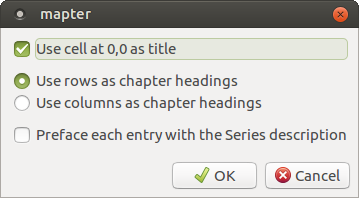
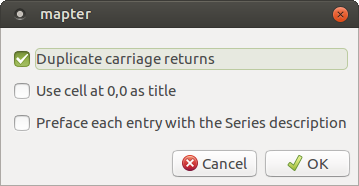
Small export changes

diff --git a/src/file.c b/src/file.c
@@ -65,7 +65,7 @@ void on_dlg_about_response( GtkDialog *dialog, gint response_id, app_widgets *ap
 void on_export_activate( GtkMenuItem *menuitem, app_widgets *app_wdgts )
 {
   gboolean use_cell_0_0;
-  gboolean row_chapters;
+  gboolean dup_cr;
   gboolean add_series;
   gchar *file_path = NULL;        // Name of file to open from dialog box
 
@@ -78,7 +78,7 @@ void on_export_activate( GtkMenuItem *menuitem, app_widgets *app_wdgts )
   {
     // Get the options
     use_cell_0_0 = gtk_toggle_button_get_active( GTK_TOGGLE_BUTTON( app_wdgts->b_chkbtn_export_title ) );
-    row_chapters = gtk_toggle_button_get_active( GTK_TOGGLE_BUTTON( app_wdgts->b_rdbtn_row ) );
+    dup_cr = gtk_toggle_button_get_active( GTK_TOGGLE_BUTTON( app_wdgts->b_chkbtn_export_dup_cr ) );
     add_series = gtk_toggle_button_get_active( GTK_TOGGLE_BUTTON( app_wdgts->b_chkbtn_export_series ) );
     // Close the dialog
     gtk_widget_hide(app_wdgts->w_dlg_export_options );
@@ -115,75 +115,57 @@ void on_export_activate( GtkMenuItem *menuitem, app_widgets *app_wdgts )
             }
           }
 
-          if( row_chapters == TRUE )
+          // Rows as chapters
+          g_info( "  Use rows as chapters" );
+          for( gint r=1; r<app_wdgts->current_grid_rows; r++ )
           {
-            // Rows as chapters
-            g_info( "  Use rows as chapters" );
-            for( gint r=1; r<app_wdgts->current_grid_rows; r++ )
+            // Chapter title is in column 0
+            gchar *chapter = list_get_text( HEADER_LIST, r, 0, app_wdgts );
+            if( ( chapter != NULL ) && ( strlen( chapter ) > 0 ) )
             {
-              // Chapter title is in column 0
-              gchar *chapter = list_get_text( HEADER_LIST, r, 0, app_wdgts );
-              if( ( chapter != NULL ) && ( strlen( chapter ) > 0 ) )
-              {
-                fprintf( output_file, "%s\n\n", chapter );
-              }
-              // Now the sections
-              for( gint c=1; c<app_wdgts->current_grid_columns; c++ )
-              {
-                gchar *header = list_get_text( HEADER_LIST, r, c, app_wdgts );
-                gchar *body = list_get_text( BODY_LIST, r, c, app_wdgts );
-                // Header
-                if( ( header != NULL ) && ( strlen( header ) > 0 ) )
-                {
-                  if( add_series == TRUE )
-                  {
-                    fprintf( output_file, "%s - ", fetch_cell_contents( app_wdgts->w_text_grid, 0, c  ) );
-                  }
-                  fprintf( output_file, "%s\n\n", header );
-                }
-                // Body
-                if( ( body != NULL ) && ( strlen( body ) > 0 ) )
-                {
-                  fprintf( output_file, "%s\n\n", body );
-                }
-              }
-              fprintf( output_file, "\n" );
+              fprintf( output_file, "%s\n\n", chapter );
             }
-          }
-          else
-          {
-            // Columns as chapters
-            g_info( "  Use columns as chapters" );
+            // Now the sections
             for( gint c=1; c<app_wdgts->current_grid_columns; c++ )
             {
-              // Chapter title is in row 0
-              gchar *chapter = list_get_text( HEADER_LIST, 0, c, app_wdgts );
-              if( ( chapter != NULL ) && ( strlen( chapter ) > 0 ) )
+              gchar *header = list_get_text( HEADER_LIST, r, c, app_wdgts );
+              gchar *body = list_get_text( BODY_LIST, r, c, app_wdgts );
+              // Header
+              if( ( header != NULL ) && ( strlen( header ) > 0 ) )
               {
-                fprintf( output_file, "%s\n\n", chapter );
-              }
-              // Now the sections
-              for( gint r=1; r<app_wdgts->current_grid_rows; r++ )
-              {
-                gchar *header = list_get_text( HEADER_LIST, r, c, app_wdgts );
-                gchar *body = list_get_text( BODY_LIST, r, c, app_wdgts );
-                // Header
-                if( ( header != NULL ) && ( strlen( header ) > 0 ) )
+                if( add_series == TRUE )
                 {
-                  if( add_series == TRUE )
-                  {
-                    fprintf( output_file, "%s - ", fetch_cell_contents( app_wdgts->w_text_grid, r, 0  ) );
-                  }
-                  fprintf( output_file, "%s\n\n", header );
+                  fprintf( output_file, "%s - ", fetch_cell_contents( app_wdgts->w_text_grid, 0, c  ) );
                 }
-                // Body
-                if( ( body != NULL ) && ( strlen( body ) > 0 ) )
+                fprintf( output_file, "%s\n\n", header );
+              }
+              // Body
+              if( ( body != NULL ) && ( strlen( body ) > 0 ) )
+              {
+                // Check if the CRs need to be duplicated
+                if( dup_cr )
                 {
+                    // Loop through the body text
+                    gchar *ptr = body;
+                    while( *ptr != '\0' )
+                    {
+                      fprintf( output_file, "%c", *ptr );
+                      if( *ptr == '\n' )
+                      {
+                        fprintf( output_file, "\n" );
+                      }
+                      ptr++;
+                    }
+                    fprintf( output_file, "\n\n" );
+                }
+                else
+                {
+                  // Just output the body in one go
                   fprintf( output_file, "%s\n\n", body );
                 }
               }
-              fprintf( output_file, "\n" );
             }
+            fprintf( output_file, "\n" );
           }
         }
         else

diff --git a/src/gui.c b/src/gui.c
@@ -586,7 +586,7 @@ const gchar *glade_definition = R""""(
     <property name="deletable">False</property>
     <property name="transient_for">window_main</property>
     <property name="program_name">mapter</property>
-    <property name="version">Version 0.5.3</property>
+    <property name="version">Version 0.5.4</property>
     <property name="copyright" translatable="yes">Copyright John Davies 2020</property>
     <property name="website">https://github.com/john-davies/mapter</property>
     <property name="website_label" translatable="yes">GitHub repository</property>
@@ -734,24 +734,8 @@ const gchar *glade_definition = R""""(
             <property name="border_width">8</property>
             <property name="orientation">vertical</property>
             <child>
-              <object class="GtkCheckButton" id="chkbtn_export_title">
-                <property name="label" translatable="yes">Use cell at 0,0 as title</property>
-                <property name="visible">True</property>
-                <property name="can_focus">True</property>
-                <property name="receives_default">False</property>
-                <property name="xalign">0</property>
-                <property name="active">True</property>
-                <property name="draw_indicator">True</property>
-              </object>
-              <packing>
-                <property name="expand">False</property>
-                <property name="fill">True</property>
-                <property name="position">0</property>
-              </packing>
-            </child>
-            <child>
-              <object class="GtkRadioButton" id="rdbtn_row">
-                <property name="label" translatable="yes">Use rows as chapter headings</property>
+              <object class="GtkCheckButton" id="chkbtn_export_dup_cr">
+                <property name="label" translatable="yes">Duplicate carriage returns</property>
                 <property name="visible">True</property>
                 <property name="can_focus">True</property>
                 <property name="receives_default">False</property>
@@ -763,24 +747,23 @@ const gchar *glade_definition = R""""(
               <packing>
                 <property name="expand">False</property>
                 <property name="fill">True</property>
-                <property name="position">1</property>
+                <property name="position">0</property>
               </packing>
             </child>
             <child>
-              <object class="GtkRadioButton" id="rdbtn_column">
-                <property name="label" translatable="yes">Use columns as chapter headings</property>
+              <object class="GtkCheckButton" id="chkbtn_export_title">
+                <property name="label" translatable="yes">Use cell at 0,0 as title</property>
                 <property name="visible">True</property>
                 <property name="can_focus">True</property>
                 <property name="receives_default">False</property>
+                <property name="margin_top">10</property>
                 <property name="xalign">0</property>
-                <property name="active">True</property>
                 <property name="draw_indicator">True</property>
-                <property name="group">rdbtn_row</property>
               </object>
               <packing>
                 <property name="expand">False</property>
                 <property name="fill">True</property>
-                <property name="position">2</property>
+                <property name="position">1</property>
               </packing>
             </child>
             <child>

diff --git a/src/main.c b/src/main.c
@@ -77,7 +77,7 @@ int main( int argc, char *argv[] )
     widgets->stop_node_processing = FALSE;
     widgets->w_dlg_export_options = GTK_WIDGET(gtk_builder_get_object(builder, "dlg_export_options"));
     widgets->b_chkbtn_export_title = GTK_WIDGET(gtk_builder_get_object(builder, "chkbtn_export_title"));
-    widgets->b_rdbtn_row = GTK_WIDGET(gtk_builder_get_object(builder, "rdbtn_row"));
+    widgets->b_chkbtn_export_dup_cr = GTK_WIDGET(gtk_builder_get_object(builder, "chkbtn_export_dup_cr"));
     widgets->w_dlg_export = GTK_WIDGET(gtk_builder_get_object(builder, "dlg_export"));
     widgets->b_chkbtn_export_series = GTK_WIDGET(gtk_builder_get_object(builder, "chkbtn_export_series"));
     widgets->l_row_id_label  = GTK_WIDGET(gtk_builder_get_object(builder, "row_id_label"));

diff --git a/src/main.h b/src/main.h
@@ -90,7 +90,7 @@ typedef struct {
     gboolean current_node_status;
     gboolean stop_node_processing;
     GtkWidget *b_chkbtn_export_title;
-    GtkWidget *b_rdbtn_row;
+    GtkWidget *b_chkbtn_export_dup_cr;
     GtkWidget *b_chkbtn_export_series;
     GtkWidget *w_dlg_export;
     GtkWidget *l_row_id_label;

diff --git a/README.md b/README.md
@@ -24,11 +24,7 @@ _( The name comes from a portmanteau of "mapping" and "chapter" and was created 
 
 ## Current Status
 
-The current version ( 0.5.3 ) could generously be called a minimum viable product ( MVP ) and allows the creation and editing of a full work. The main limitation is that the editor is extremely basic and lacks common features like "search/replace".
-
-The build now comprises of a single executable with no other external file dependencies.
-
-The example file has been expanded to include the full body text. Two extra versions of the example have been added with Markdown and LaTeX annotations to show how the output could be typeset.
+The current version ( 0.5.4 ) could generously be called a minimum viable product ( MVP ) and allows the creation and editing of a full work. The main limitation is that the editor is extremely basic and lacks common features like "search/replace".
 
 ## Building
 
@@ -67,7 +63,6 @@ The grid tab has four main sections as described below. Double click on any of t
     * Low - green background
     * Neutral - blue background
 
-_For the export it is possible to swap the order such that the column headings are the chapter titles etc. see below_
 
 #### Notes tab
 
@@ -102,6 +97,8 @@ The usual file open, save, save as, new commands can be found under the "File" m
 File export is similar to save but exports the data in a more structured way. There are some export options:
 
 ![Edit Window](/doc-images/export.png)
+
+Some tools use two consecutive carriage returns as a paragraph marker. However it's sometimes more convenient and a nicer layout in the mapter section editor to write text using just one carriage return. The first option adds an extra carriage return into the export.
 
 The last option specifies whether extra data is added to each line, e.g.
 
@@ -153,6 +150,4 @@ Trace and debugging information can be show on the standard output by using the 
 Future planned developments include:
 
 * Improved Editor with features like search/replace and undo. At the moment the [GTKSourceView](https://gitlab.gnome.org/GNOME/gtksourceview) component looks a likely candidate.
-* Status indication ( or %age completion ) for each cell
 * A method of moving or swapping the contents of cells without a lot of cutting & pasting
-* Tree control for the notes tab so that information can be collated hierarchically
